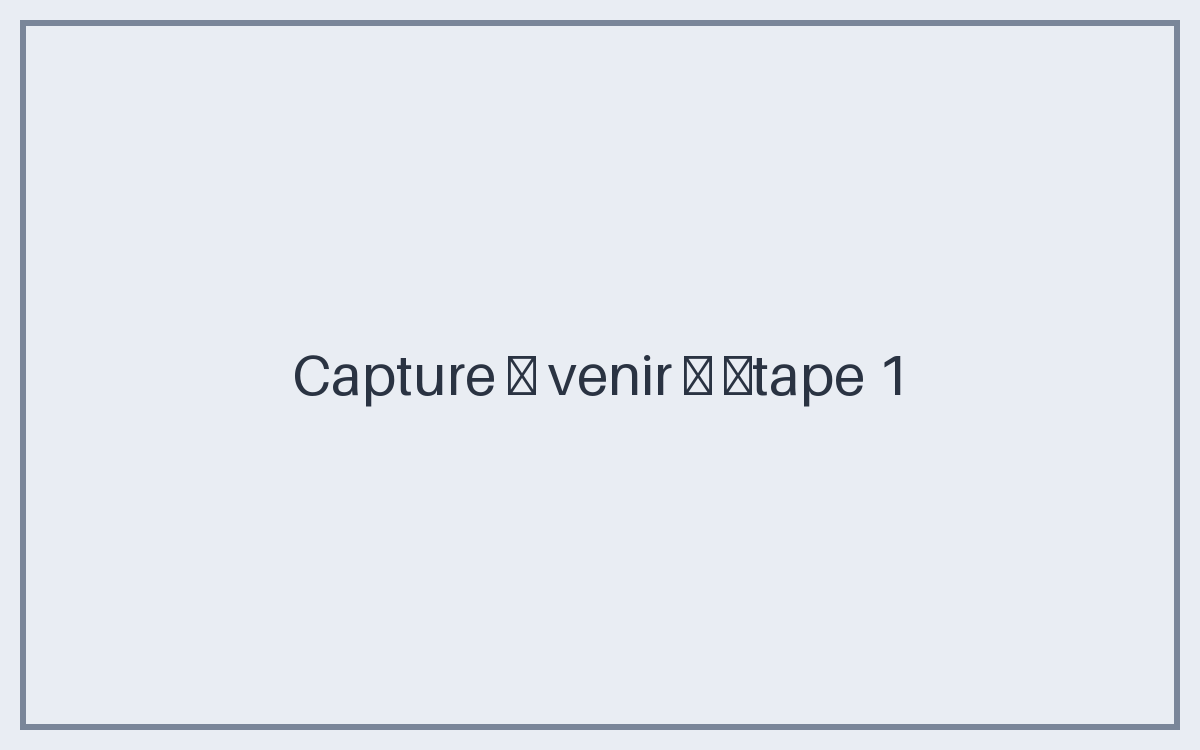
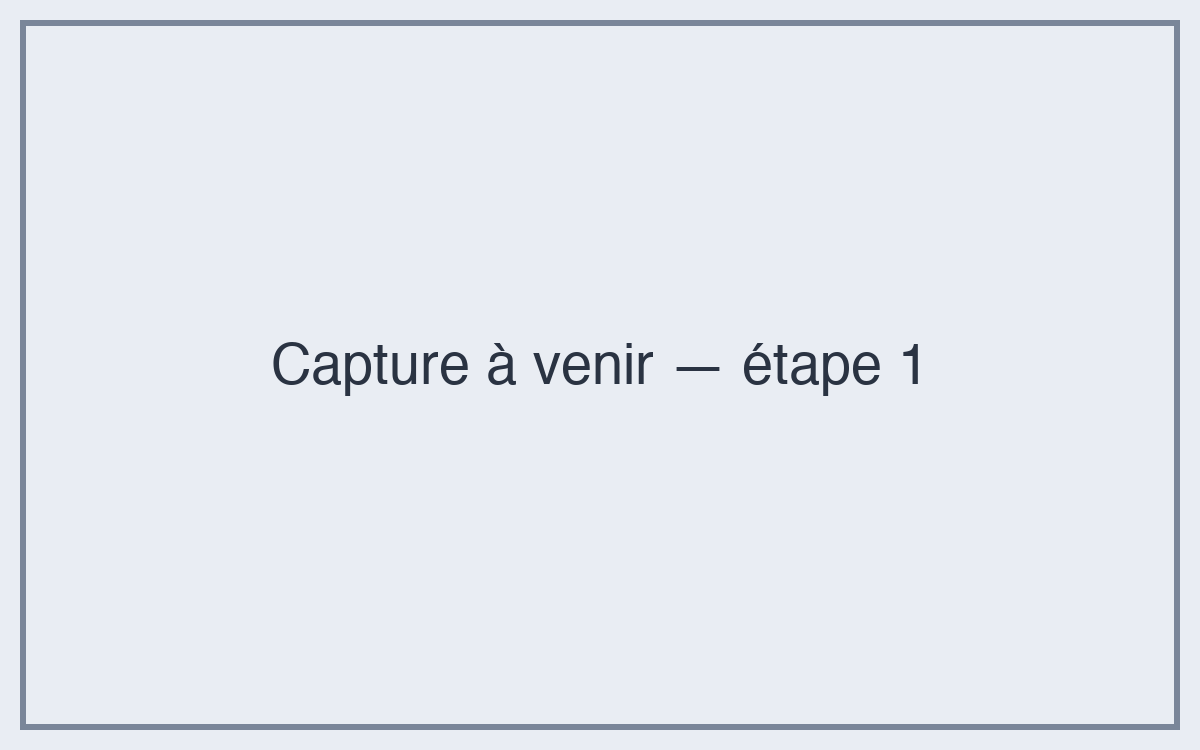
fix: release.sh publishes after appcast, download-first page, larger captions

Changed region(s): [[0.2158, 0.46, 0.7708, 0.552]]

diff --git a/site/index.html b/site/index.html
@@ -17,10 +17,11 @@ h1{font-size:2.2rem;margin:0}
 ol{list-style:none;margin:0 0 20px;padding:0;display:grid;grid-template-columns:repeat(3,1fr);gap:16px}
 li{background:var(--card);border-radius:14px;padding:12px;text-align:left}
 li img{width:100%;height:auto;border-radius:8px;display:block;margin-bottom:10px}
-li p{margin:0;font-size:1rem;line-height:1.4}
-.btn{display:inline-block;background:var(--accent);color:var(--accent-fg);font-size:1.5rem;font-weight:700;text-decoration:none;padding:16px 36px;border-radius:14px}
+li p{margin:0;font-size:1.125rem;line-height:1.4}
+.btn{margin-top:4px;display:inline-block;background:var(--accent);color:var(--accent-fg);font-size:1.5rem;font-weight:700;text-decoration:none;padding:16px 36px;border-radius:14px}
 .btn:focus-visible{outline:4px solid var(--fg);outline-offset:3px}
-.small{color:var(--muted);margin:10px 0 0;font-size:1rem}
+.small{color:var(--muted);margin:10px 0 0;font-size:1.125rem}
+h2{font-size:1.5rem;margin:22px 0 4px}.lead2{font-size:1.125rem;margin:0 0 14px}ol{margin-bottom:0}
 @media (max-width:760px){ol{grid-template-columns:1fr}}
 </style>
 </head>
@@ -28,13 +29,15 @@ li p{margin:0;font-size:1rem;line-height:1.4}
 <main>
 <header><img src="img/icon.png" alt=""><h1>Budget Guard</h1></header>
 <p class="lead">Budget Guard affiche en haut de votre écran la part de votre forfait Claude que vous avez déjà utilisée cette semaine.</p>
+<a class="btn" href="https://github.com/dalex160/claude-budget-watch/releases/latest/download/BudgetGuard.dmg">Télécharger Budget Guard</a>
+<p class="small">Nécessite macOS 13 ou plus récent.</p>
+<h2>Ensuite, pour l’ouvrir la première fois</h2>
+<p class="lead2">Ouvrez le fichier téléchargé, puis glissez Budget Guard dans le dossier Applications.</p>
 <ol>
 <li><img src="img/ouvrir-1.png" alt="Alerte macOS : l’application n’a pas pu être ouverte"><p>1. Double-cliquez sur Budget Guard. macOS refuse de l’ouvrir la première fois : c’est normal.</p></li>
 <li><img src="img/ouvrir-2.png" alt="Réglages Système, Confidentialité et sécurité, bouton Ouvrir quand même"><p>2. Ouvrez Réglages Système &gt; Confidentialité et sécurité, descendez et cliquez sur « Ouvrir quand même ».</p></li>
 <li><img src="img/ouvrir-3.png" alt="Fenêtre de confirmation"><p>3. Confirmez. Budget Guard vous guide ensuite.</p></li>
 </ol>
-<a class="btn" href="https://github.com/dalex160/claude-budget-watch/releases/latest/download/BudgetGuard.dmg">Télécharger Budget Guard</a>
-<p class="small">Nécessite macOS 13 ou plus récent.</p>
 </main>
 </body>
 </html>

diff --git a/README.md b/README.md
@@ -39,7 +39,7 @@ Budget Guard is a [SwiftBar](https://github.com/swiftbar/SwiftBar) plugin that d
 
 ### Installation
 
-### Option A -- Homebrew (recommended)
+#### Option A -- Homebrew (recommended)
 
 ```bash
 brew install --cask swiftbar        # if not already installed
@@ -49,7 +49,7 @@ brew install budget-guard
 budget-guard-link                    # links the plugin into SwiftBar
 ```
 
-### Option B -- Symlink (recommended for developers)
+#### Option B -- Symlink (recommended for developers)
 
 This way you can `git pull` updates without re-copying.
 
@@ -61,7 +61,7 @@ mkdir -p "$HOME/Library/Application Support/SwiftBar/Plugins"
 ln -sf ~/budget-guard/budget-guard.2m.sh "$HOME/Library/Application Support/SwiftBar/Plugins/budget-guard.2m.sh"
 ```
 
-### Option C -- Direct copy
+#### Option C -- Direct copy
 
 ```bash
 git clone https://github.com/dalex160/claude-budget-watch.git ~/budget-guard
